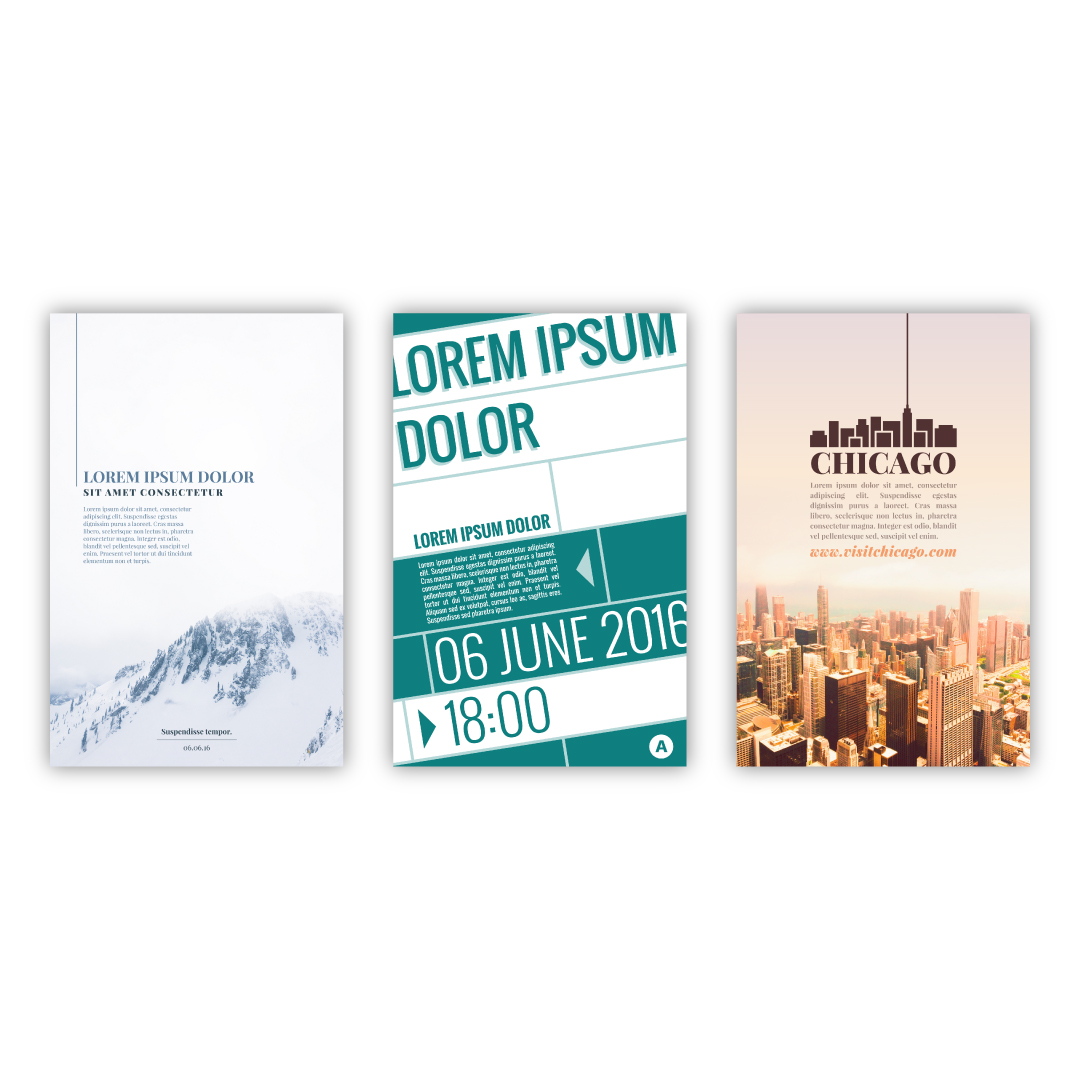
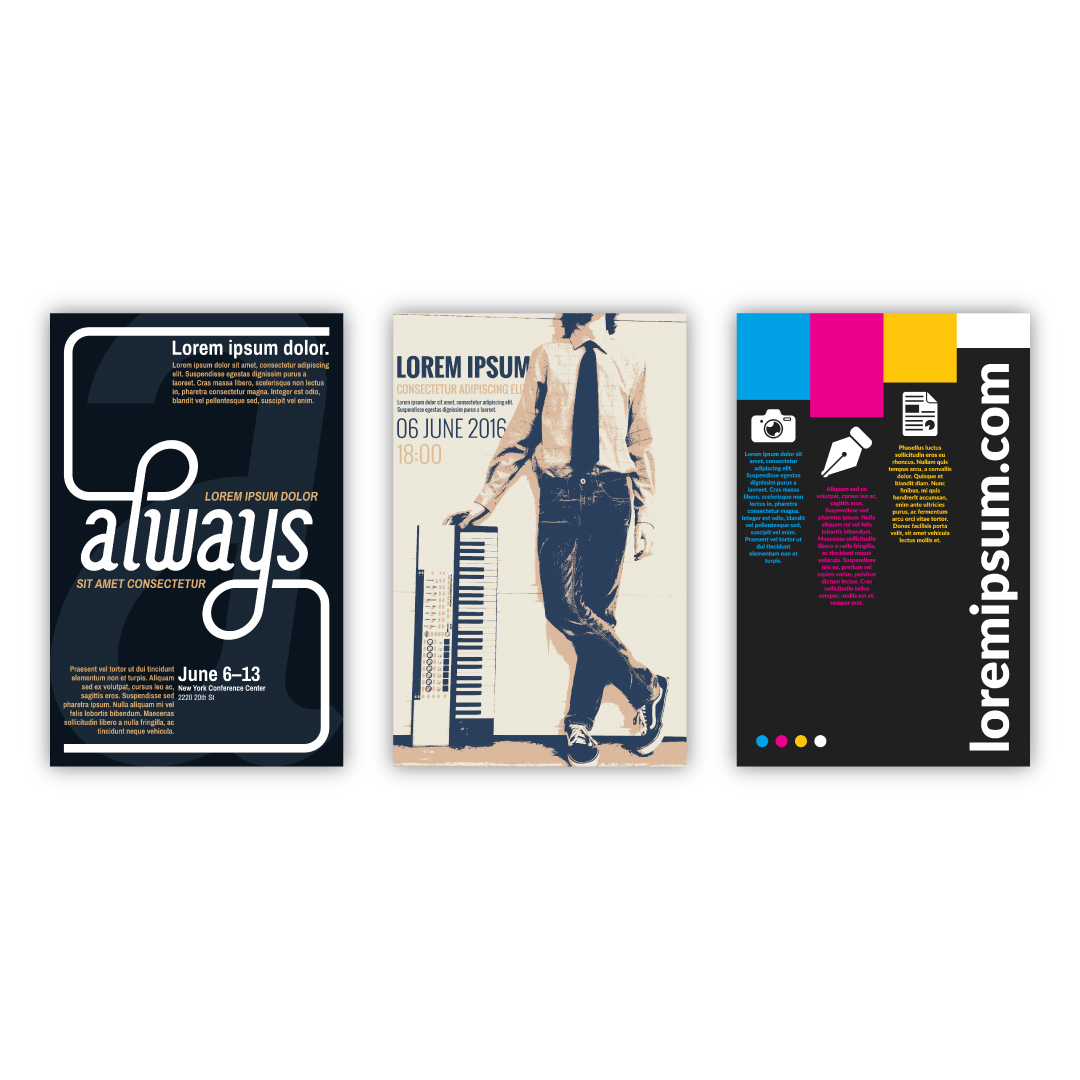
Update 9.24.16
Added d15 Vision 2016 Artwork, removed d7 DMTD

diff --git a/index.html b/index.html
@@ -23,15 +23,15 @@
     </div><!--
  --><div id="gallery">
         <div id="notice"><p id="notice-message-mobile">Tap and hold an item to learn more.</p><p id="notice-message-desktop">Click an item to learn more.</p></div><!--
-     --><div class="design"><div class="info"><div class="text"><p class="title">Lorem Ipsum Posters</p><p class="description">Experimental poster designs. The left specimen explores the use of type illustration to guide a layout. The center specimen combines a complementary color scheme with bold imagery to make a particularly strong impression. The right specimen explores the use of the fundamental CMYK colors to create a diverse yet cohesive appearance.</p></div><img src="Images/Gallery/d15.jpg" class="design-img" id="d15"><div class="desktop-trigger"></div></div></div><!--
-     --><div class="design"><div class="info"><div class="text"><p class="title">Lorem Ipsum Posters</p><p class="description">Experimental poster designs. The left specimen explores the use of minimalistic photography to create an "atmosphere" for information. The center specimen explores the use of a monochrome color scheme combined with minimal geometry. The right specimen explores similar ideas as that of the left.</p></div><img src="Images/Gallery/d14.jpg" class="design-img" id="d14"><div class="desktop-trigger"></div></div></div><!--
-     --><div class="design"><div class="info"><div class="text"><p class="title">members3 Brand</p><p class="description">Brand developed for the members3 ("Members Cubed: Then, Now, Tomorrow") program. The design is clean, modern, and forward-looking. The cool-end color scheme has a professional attitude and is extremely versatile.</p></div><img src="Images/Gallery/d13.jpg" class="design-img" id="d13"><div class="desktop-trigger"></div></div></div><!--
-     --><div class="design"><div class="info"><div class="text"><p class="title">Hillcrest Music Brand</p><p class="description">Brand developed for Hillcrest Music Outreach. The logo was evolved from the intersection between a pair of eighth notes and a paw (to represent a husky, the group's mascot).</p></div><img src="Images/Gallery/d12.jpg" class="design-img" id="d12"><div class="desktop-trigger"></div></div></div><!--
-     --><div class="design"><div class="info"><div class="text"><p class="title">UDMAF Theme</p><p class="description">A theme for the 2016 Utah Digital Media Arts Festival: "design makes the difference." Shown here is the poster.</p></div><img src="Images/Gallery/d11.jpg" class="design-img" id="d11"><div class="desktop-trigger"></div></div></div><!--
-     --><div class="design"><div class="info"><div class="text"><p class="title">UACTE Logo Diagram</p><p class="description">A diagram illustrating how the UACTE 2017 logo was constructed. It provides insight into the theory behind the design as well.</p></div><img src="Images/Gallery/d10.jpg" class="design-img" id="d10"><div class="desktop-trigger"></div></div></div><!--
-     --><div class="design"><div class="info"><div class="text"><p class="title">UACTE Conference Art</p><p class="description">Conference artwork created for the 2017 Utah Association for Career and Technical Education annual conference. Shown here is the logo and color scheme, developed from the theme, "Grow Your Own."</p></div><img src="Images/Gallery/d9.jpg" class="design-img" id="d9"><div class="desktop-trigger"></div></div></div><!--
-     --><div class="design"><div class="info"><div class="text"><p class="title">Vertex Brand</p><p class="description">An experimental brand for the prospective startup Vertex. It features a grayscale color scheme with subtle organic textures and a fully custom logotype.</p></div><img src="Images/Gallery/d8.jpg" class="design-img" id="d8"><div class="desktop-trigger"></div></div></div><!--
-     --><div class="design"><div class="info"><div class="text"><p class="title">DMTD</p><p class="description">A custom type design. The characters are geometric in nature, having been constructed entirely from basic forms. It is made here into a type illustration with the phrase, "Design Makes the Difference."</p></div><img src="Images/Gallery/d7.jpg" class="design-img" id="d7"><div class="desktop-trigger"></div></div></div><!--
+     --><div class="design"><div class="info"><div class="text"><p class="title">Vision 2016 Series Artwork</p><p class="description">Artwork for the Vision 2016 sermon series at South Mountain Community Church. Shown here is the lobby poster. Based on an original photograph of the Grand Canyon of the Yellowstone.</p></div><img src="Images/Gallery/d15.jpg" class="design-img" id="d15"><div class="desktop-trigger"></div></div></div><!--
+     --><div class="design"><div class="info"><div class="text"><p class="title">Lorem Ipsum Posters</p><p class="description">Experimental poster designs. The left specimen explores the use of type illustration to guide a layout. The center specimen combines a complementary color scheme with bold imagery to make a particularly strong impression. The right specimen explores the use of the fundamental CMYK colors to create a diverse yet cohesive appearance.</p></div><img src="Images/Gallery/d14.jpg" class="design-img" id="d14"><div class="desktop-trigger"></div></div></div><!--
+     --><div class="design"><div class="info"><div class="text"><p class="title">Lorem Ipsum Posters</p><p class="description">Experimental poster designs. The left specimen explores the use of minimalistic photography to create an "atmosphere" for information. The center specimen explores the use of a monochrome color scheme combined with minimal geometry. The right specimen explores similar ideas as that of the left.</p></div><img src="Images/Gallery/d13.jpg" class="design-img" id="d13"><div class="desktop-trigger"></div></div></div><!--
+     --><div class="design"><div class="info"><div class="text"><p class="title">members3 Brand</p><p class="description">Brand developed for the members3 ("Members Cubed: Then, Now, Tomorrow") program. The design is clean, modern, and forward-looking. The cool-end color scheme has a professional attitude and is extremely versatile.</p></div><img src="Images/Gallery/d12.jpg" class="design-img" id="d12"><div class="desktop-trigger"></div></div></div><!--
+     --><div class="design"><div class="info"><div class="text"><p class="title">Hillcrest Music Brand</p><p class="description">Brand developed for Hillcrest Music Outreach. The logo was evolved from the intersection between a pair of eighth notes and a paw (to represent a husky, the group's mascot).</p></div><img src="Images/Gallery/d11.jpg" class="design-img" id="d11"><div class="desktop-trigger"></div></div></div><!--
+     --><div class="design"><div class="info"><div class="text"><p class="title">UDMAF Theme</p><p class="description">A theme for the 2016 Utah Digital Media Arts Festival: "design makes the difference." Shown here is the poster.</p></div><img src="Images/Gallery/d10.jpg" class="design-img" id="d10"><div class="desktop-trigger"></div></div></div><!--
+     --><div class="design"><div class="info"><div class="text"><p class="title">UACTE Logo Diagram</p><p class="description">A diagram illustrating how the UACTE 2017 logo was constructed. It provides insight into the theory behind the design as well.</p></div><img src="Images/Gallery/d9.jpg" class="design-img" id="d9"><div class="desktop-trigger"></div></div></div><!--
+     --><div class="design"><div class="info"><div class="text"><p class="title">UACTE Conference Art</p><p class="description">Conference artwork created for the 2017 Utah Association for Career and Technical Education annual conference. Shown here is the logo and color scheme, developed from the theme, "Grow Your Own."</p></div><img src="Images/Gallery/d8.jpg" class="design-img" id="d8"><div class="desktop-trigger"></div></div></div><!--
+     --><div class="design"><div class="info"><div class="text"><p class="title">Vertex Brand</p><p class="description">An experimental brand for the prospective startup Vertex. It features a grayscale color scheme with subtle organic textures and a fully custom logotype.</p></div><img src="Images/Gallery/d7.jpg" class="design-img" id="d7"><div class="desktop-trigger"></div></div></div><!--
      --><div class="design"><div class="info"><div class="text"><p class="title">Cloudalize Values</p><p class="description">A poster made to display the company values of Cloudalize. The bold style and dynamic layout create a sense of motion, resulting in a work that is fun and engaging. It reflects the Cloudalize brand in every detail, most notably the color scheme.</p></div><img src="Images/Gallery/d6.jpg" class="design-img" id="d6"><div class="desktop-trigger"></div></div></div><!--
      --><div class="design"><div class="info"><div class="text"><p class="title">Arbor Floor Plan</p><p class="description">A floor plan graphic created for Arbor Event Center. It is a simplified diagram of Arbor's banquet hall with details on space availability according to the event packages offered. While it is optimized to be viewed by potential clients in a digital ecosystem, it may also be used in print.</p></div><img src="Images/Gallery/d5.jpg" class="design-img" id="d5"><div class="desktop-trigger"></div></div></div><!--
      --><div class="design"><div class="info"><div class="text"><p class="title">BMESC Conference Art</p><p class="description">Conference artwork created for the 2016 Utah Business and Marketing Education Summer Conference (BMESC). Shown here is the welcome poster. The color scheme and composition were carefully developed to accurately reflect the theme: "Power of the Past, Force of the Future." The blue/green hues and juxtaposed layout effectively accomplish this.</p></div><img src="Images/Gallery/d4.jpg" class="design-img" id="d4"><div class="desktop-trigger"></div></div></div><!--
